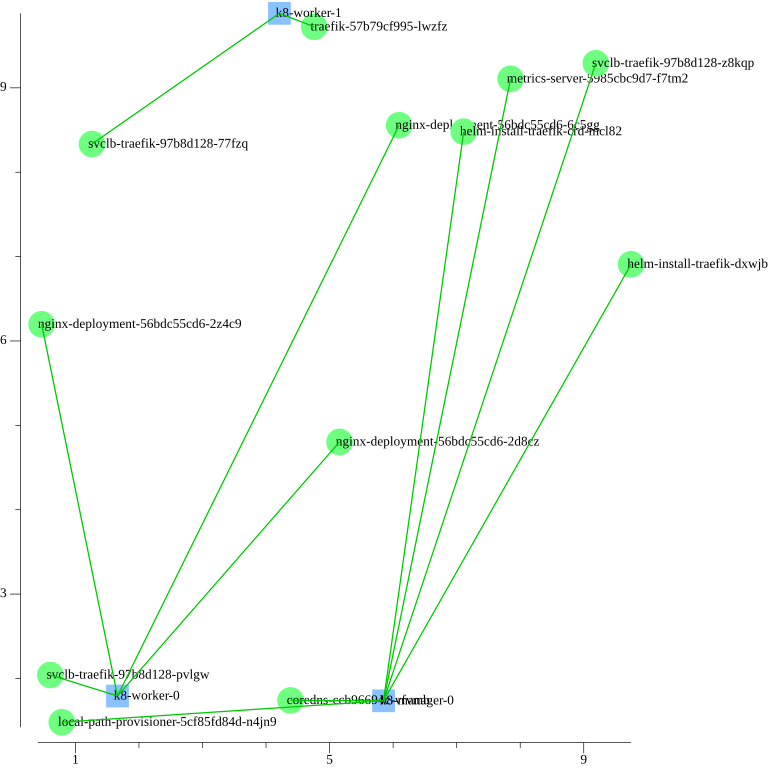
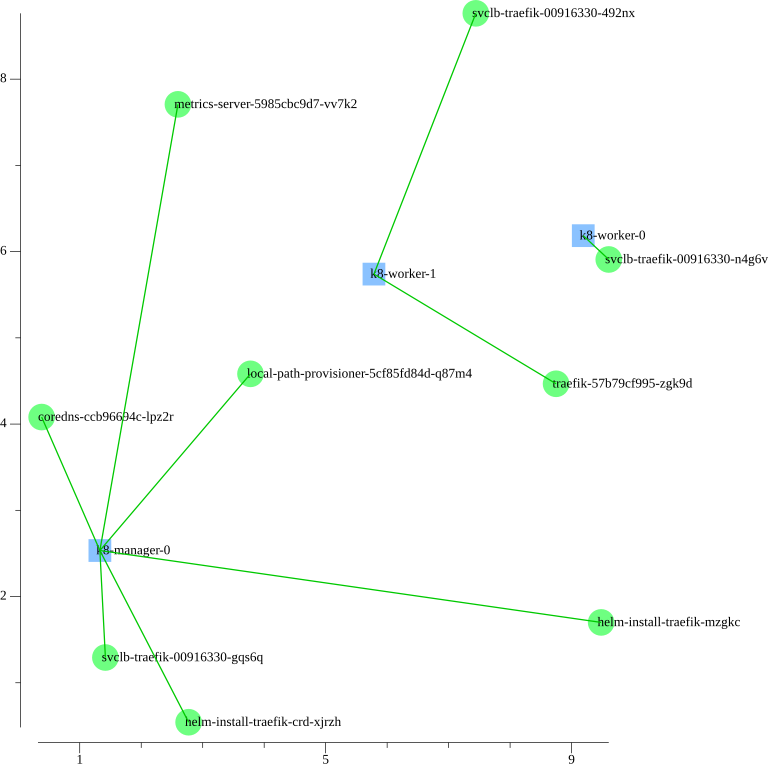
switched to new graph lib

diff --git a/scheduler/main.go b/scheduler/main.go
@@ -1,14 +1,11 @@
 package main
 
 import (
-	"scheduler/visualizer"
-	"github.com/hmdsefi/gograph"
-
-	// "context"
 	"fmt"
+	gograph"github.com/dominikbraun/graph"
+	"scheduler/visualizer"
 
 	corev1 "k8s.io/api/core/v1"
-	// policyv1 "k8s.io/api/policy/v1"
 	metav1 "k8s.io/apimachinery/pkg/apis/meta/v1"
 	"k8s.io/apimachinery/pkg/fields"
 	"k8s.io/client-go/kubernetes"
@@ -18,8 +15,9 @@ import (
 )
 
 func main() {
-	graph := gograph.New[*visualizer.Node](gograph.Directed())
-	// graph.AddEdge(gograph.NewVertex(&visualizer.Node{Name: "A", Type: "node", Properties: map[string]string{"property1": "value1", "property2": "value2"}}), gograph.NewVertex(&visualizer.Node{Name: "B", Type: "node", Properties: map[string]string{"property1": "value1", "property2": "value2"}}))
+	graph := gograph.New(func(node *visualizer.Node) string {
+		return node.Name
+	})
 
 	clientset := connectToK8s()
 	node_watchlist := cache.NewListWatchFromClient(clientset.CoreV1().RESTClient(), "nodes", metav1.NamespaceAll, fields.Everything())
@@ -29,7 +27,7 @@ func main() {
 		Handler: cache.ResourceEventHandlerFuncs{
 			AddFunc: func(obj interface{}) {
 				node := obj.(*corev1.Node)
-				graph.AddVertex(gograph.NewVertex(&visualizer.Node{Name: node.Name, Type: "node", Properties: map[string]string{}}))
+				graph.AddVertex(&visualizer.Node{Name: node.Name, Type: "node", Properties: map[string]string{}}, gograph.VertexAttribute("shape", "rect"), gograph.VertexAttribute("colorscheme", "blues3"), gograph.VertexAttribute("style", "filled"), gograph.VertexAttribute("color", "2"), gograph.VertexAttribute("fillcolor", "1"))
 
 				fmt.Printf("Node added: %v\n", node.Name)
 				verifyEdges(graph)
@@ -56,19 +54,10 @@ func main() {
 			AddFunc: func(obj interface{}) {
 				node := obj.(*corev1.Pod)
 				new_vertex := &visualizer.Node{Name: node.Name, Type: "pod", Properties: map[string]string{"nodeName": node.Spec.NodeName}}
-				graph.AddVertex(gograph.NewVertex(new_vertex))
+				graph.AddVertex(new_vertex, gograph.VertexAttribute("shape", "ellipse"), gograph.VertexAttribute("colorscheme", "greens3"), gograph.VertexAttribute("style", "filled"), gograph.VertexAttribute("color", "2"), gograph.VertexAttribute("fillcolor", "1"))
 				fmt.Println("Pod added:", node.Name)
-				for _, adj_node := range graph.GetAllVertices() {
-					if adj_node.Label().Name == node.Spec.NodeName {
-						edge, err :=graph.AddEdge(adj_node, graph.GetVertexByID(new_vertex))
-					if err != nil {
-						fmt.Println(err)
-					}
-					fmt.Println(edge)
-					}
-				}
 				verifyEdges(graph)
-			
+
 				visualizer.DrawGraph(graph)
 			},
 			UpdateFunc: func(oldObj, newObj interface{}) {
@@ -108,23 +97,27 @@ func connectToK8s() *kubernetes.Clientset {
 	return clientset
 }
 
-func verifyEdges(graph gograph.Graph[*visualizer.Node]) {
+func verifyEdges(graph gograph.Graph[string, *visualizer.Node]) {
+	fmt.Println("Verifying edges")
 	// Remove all Edges
-	for _, edge := range graph.AllEdges() {
-		graph.RemoveEdges(edge)
+	edges, _ := graph.Edges()
+	fmt.Println(edges)
+	for edge, _ := range edges {
+		fmt.Println(edge)
+
 	}
 
-	for _, node := range graph.GetAllVertices() {
-		if node.Label().Type == "pod" {
-			if node.Label().Properties["nodeName"] != "" {
-				for _, adj_node := range graph.GetAllVertices() {
-					if adj_node.Label().Name == node.Label().Properties["nodeName"] {
-						graph.AddEdge(node, adj_node)
+	adjacencyMap, _ := graph.AdjacencyMap()
+	fmt.Println("Adjacency Map:", adjacencyMap)
 
-					}
-				}
+	for vertex := range adjacencyMap {
+		node, _ := graph.Vertex(vertex)
+		if node.Type == "pod" {
+			if node.Properties["nodeName"] != "" {
+				adj_node, _ := graph.Vertex(node.Properties["nodeName"])
+				graph.AddEdge(node.Name, adj_node.Name)
+
 			}
 		}
 	}
 }
-

diff --git a/scheduler/visualizer/visualize.go b/scheduler/visualizer/visualize.go
@@ -2,106 +2,20 @@ package visualizer
 
 import (
 	"fmt"
-	"image/color"
-
-	// "log"
-	"math/rand"
-
-	"github.com/hmdsefi/gograph"
-	"gonum.org/v1/plot"
-
-	// "gonum.org/v1/plot/font"
-	// "gonum.org/v1/plot/font"
-	"gonum.org/v1/plot/plotter"
-	// "gonum.org/v1/plot/text"
-	"gonum.org/v1/plot/vg"
-	"gonum.org/v1/plot/vg/draw"
+	"os"
+	gograph"github.com/dominikbraun/graph"
+	"github.com/dominikbraun/graph/draw"
 )
 
 type Node struct {
 	Name       string
 	Type       string
-	x          float64
-	y          float64
 	Properties map[string]string
 }
 
-func DrawGraph(graph gograph.Graph[*Node]) {
+func DrawGraph(graph gograph.Graph[string, *Node]) {
 	fmt.Println("Drawing graph")
-
-	p := plot.New()
-
-	graph = findCoordinates(graph)
-	plotNodes(graph, p)
-
-	// for _, node := range graph.GetAllVertices() {
-	// 	if node.Label().Type != "node" {
-	// 		continue
-	// 	}
-	// 	nodeCoordinates[node.Label().Name] = [2]float64{rand.Float64() * 10, rand.Float64() * 10}
-	// }
-
-	// for _, edge := range graph.AllEdges() {
-	// 	from := nodeCoordinates[edge.Source().Label().Name]
-	// 	to := nodeCoordinates[edge.Destination().Label().Name]
-	// 	line, _ := plotter.NewLine(plotter.XYs{{from[0], from[1]}, {to[0], to[1]}})
-	// 	line.LineStyle.Color = color.RGBA{R: 0, G: 200, B: 0, A: 255}
-	// 	p.Add(line)
-	// }
-	plotEdges(graph, p)
-
-	p.Save(8*vg.Inch, 8*vg.Inch, "graph_plot.png")
+	file, _ :=os.Create("./simple.gv")
+	_ = draw.DOT(graph, file)
 }
 
-func findCoordinates(graph gograph.Graph[*Node]) gograph.Graph[*Node] {
-	for _, node := range graph.GetAllVertices() {
-		node.Label().x = rand.Float64() * 10
-		node.Label().y = rand.Float64() * 10
-	}
-	return graph
-}
-
-func plotNodes(graph gograph.Graph[*Node], p *plot.Plot) {
-	labelOffset := 0.06
-	for _, node := range graph.GetAllVertices() {
-		if node.Label().Type == "node" {
-			scatter, _ := plotter.NewScatter(plotter.XYs{{X: node.Label().x, Y: node.Label().y}})
-			scatter.GlyphStyle.Shape = draw.BoxGlyph{}
-			scatter.GlyphStyle.Radius = vg.Length(10)
-			scatter.Color = color.RGBA{R: 138, G: 194, B: 255, A: 255}
-			p.Add(scatter)
-			label, _ := plotter.NewLabels(plotter.XYLabels{
-				XYs: []plotter.XY{
-					{X: node.Label().x-labelOffset, Y: node.Label().y-labelOffset},
-				},
-				Labels: []string{node.Label().Name},
-			})
-			p.Add(label)
-
-		} else if node.Label().Type == "pod" {
-			scatter, _ := plotter.NewScatter(plotter.XYs{{X: node.Label().x, Y: node.Label().y}})
-			scatter.GlyphStyle.Shape = draw.CircleGlyph{}
-			scatter.GlyphStyle.Radius = vg.Length(10)
-			scatter.Color = color.RGBA{R: 110, G: 255, B: 129, A: 255}
-			p.Add(scatter)
-			label, _ := plotter.NewLabels(plotter.XYLabels{
-				XYs: []plotter.XY{
-					{X: node.Label().x-labelOffset, Y: node.Label().y-labelOffset},
-				},
-				Labels: []string{node.Label().Name},
-			})
-			p.Add(label)
-		}
-	}
-
-}
-
-func plotEdges(graph gograph.Graph[*Node], p *plot.Plot) {
-	for _, edge := range graph.AllEdges() {
-		from := edge.Source().Label()
-		to := edge.Destination().Label()
-		line, _ := plotter.NewLine(plotter.XYs{{from.x, from.y}, {to.x, to.y}})
-		line.LineStyle.Color = color.RGBA{R: 0, G: 200, B: 0, A: 255}
-		p.Add(line)
-	}
-}
